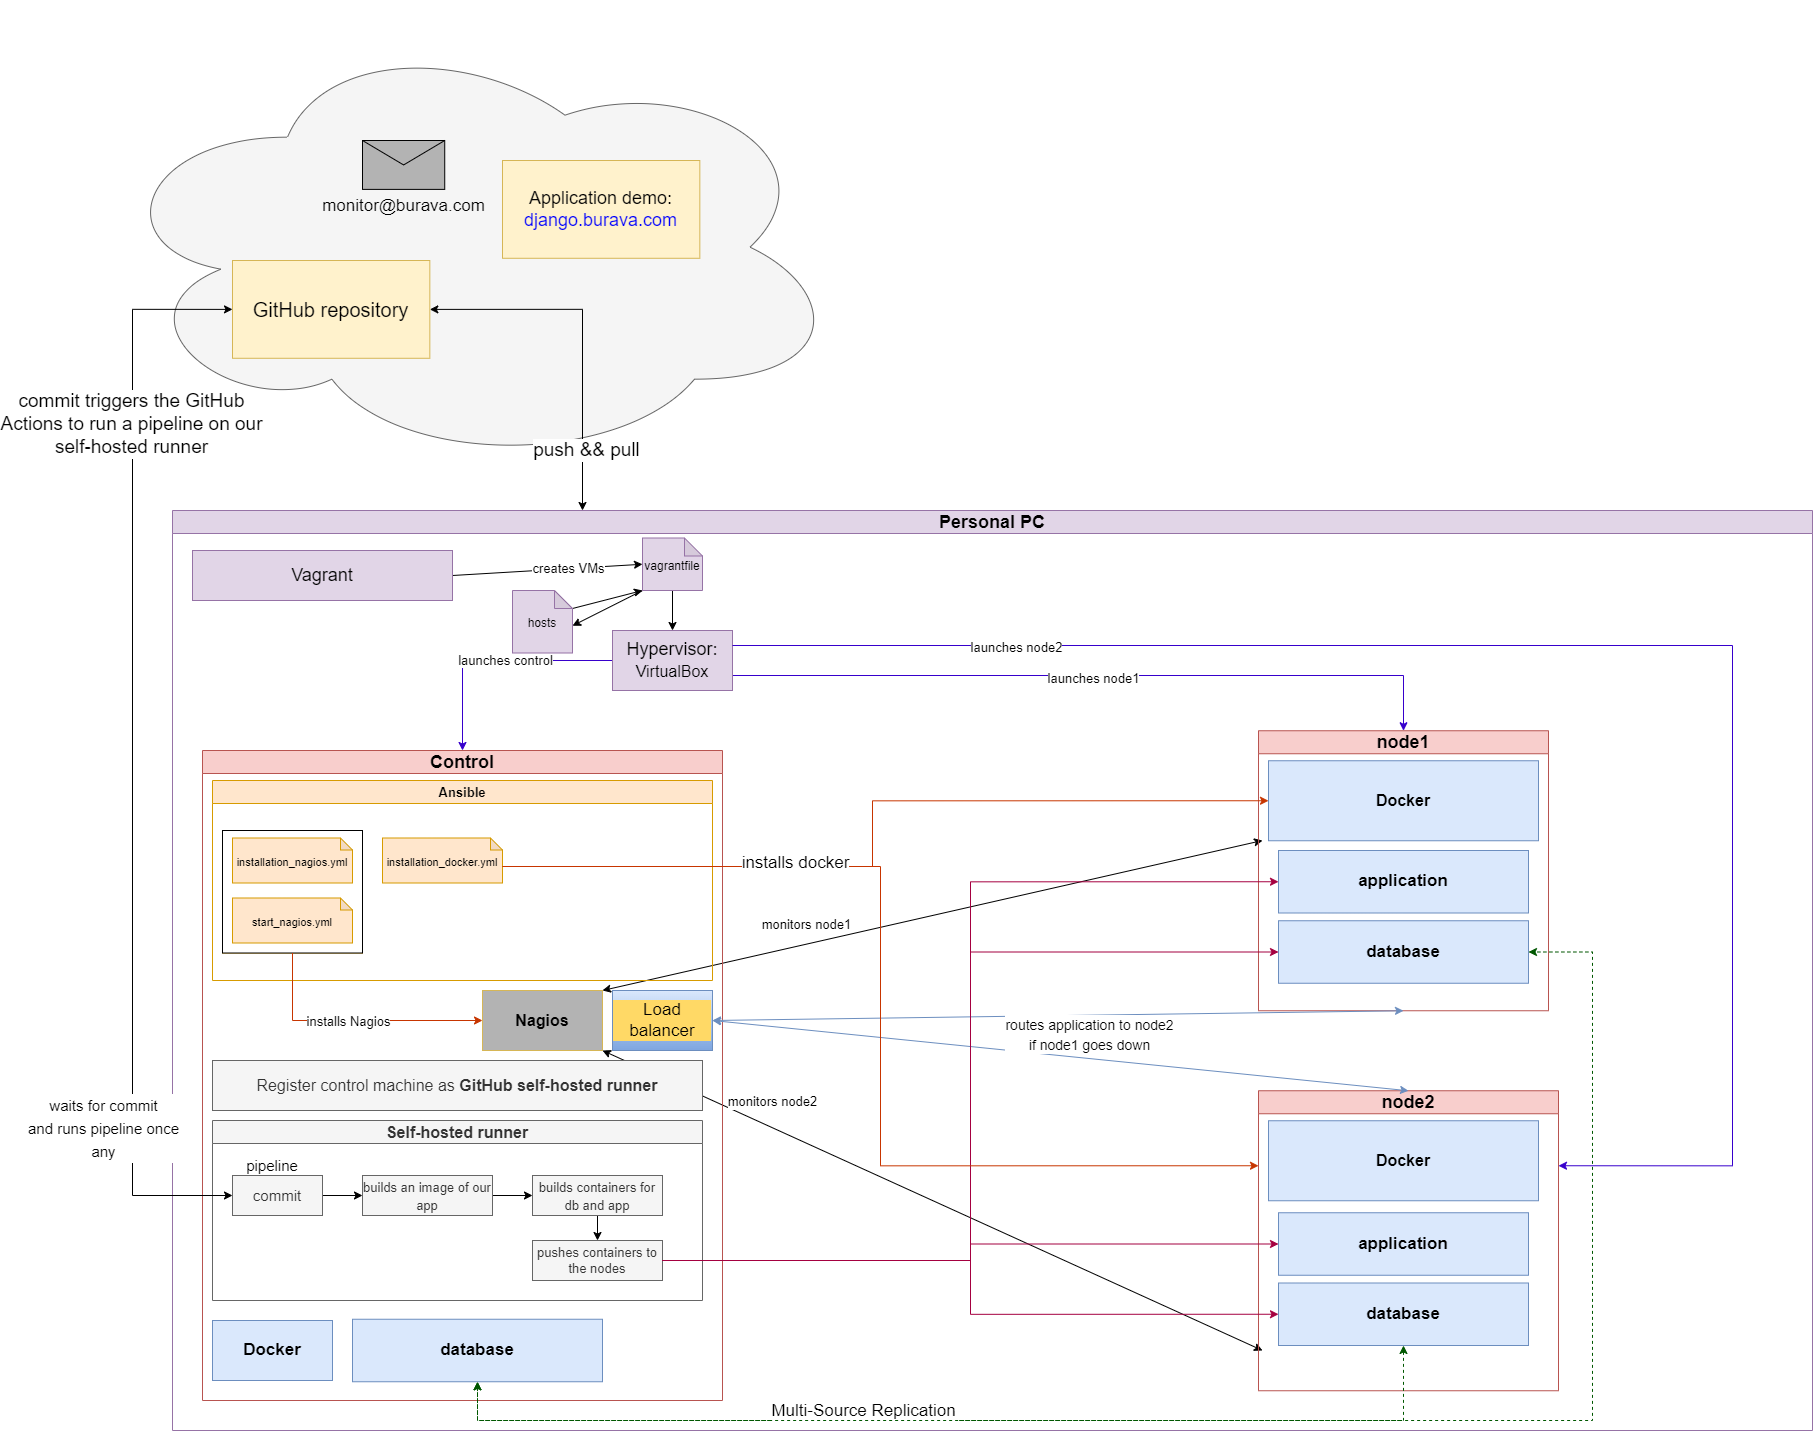
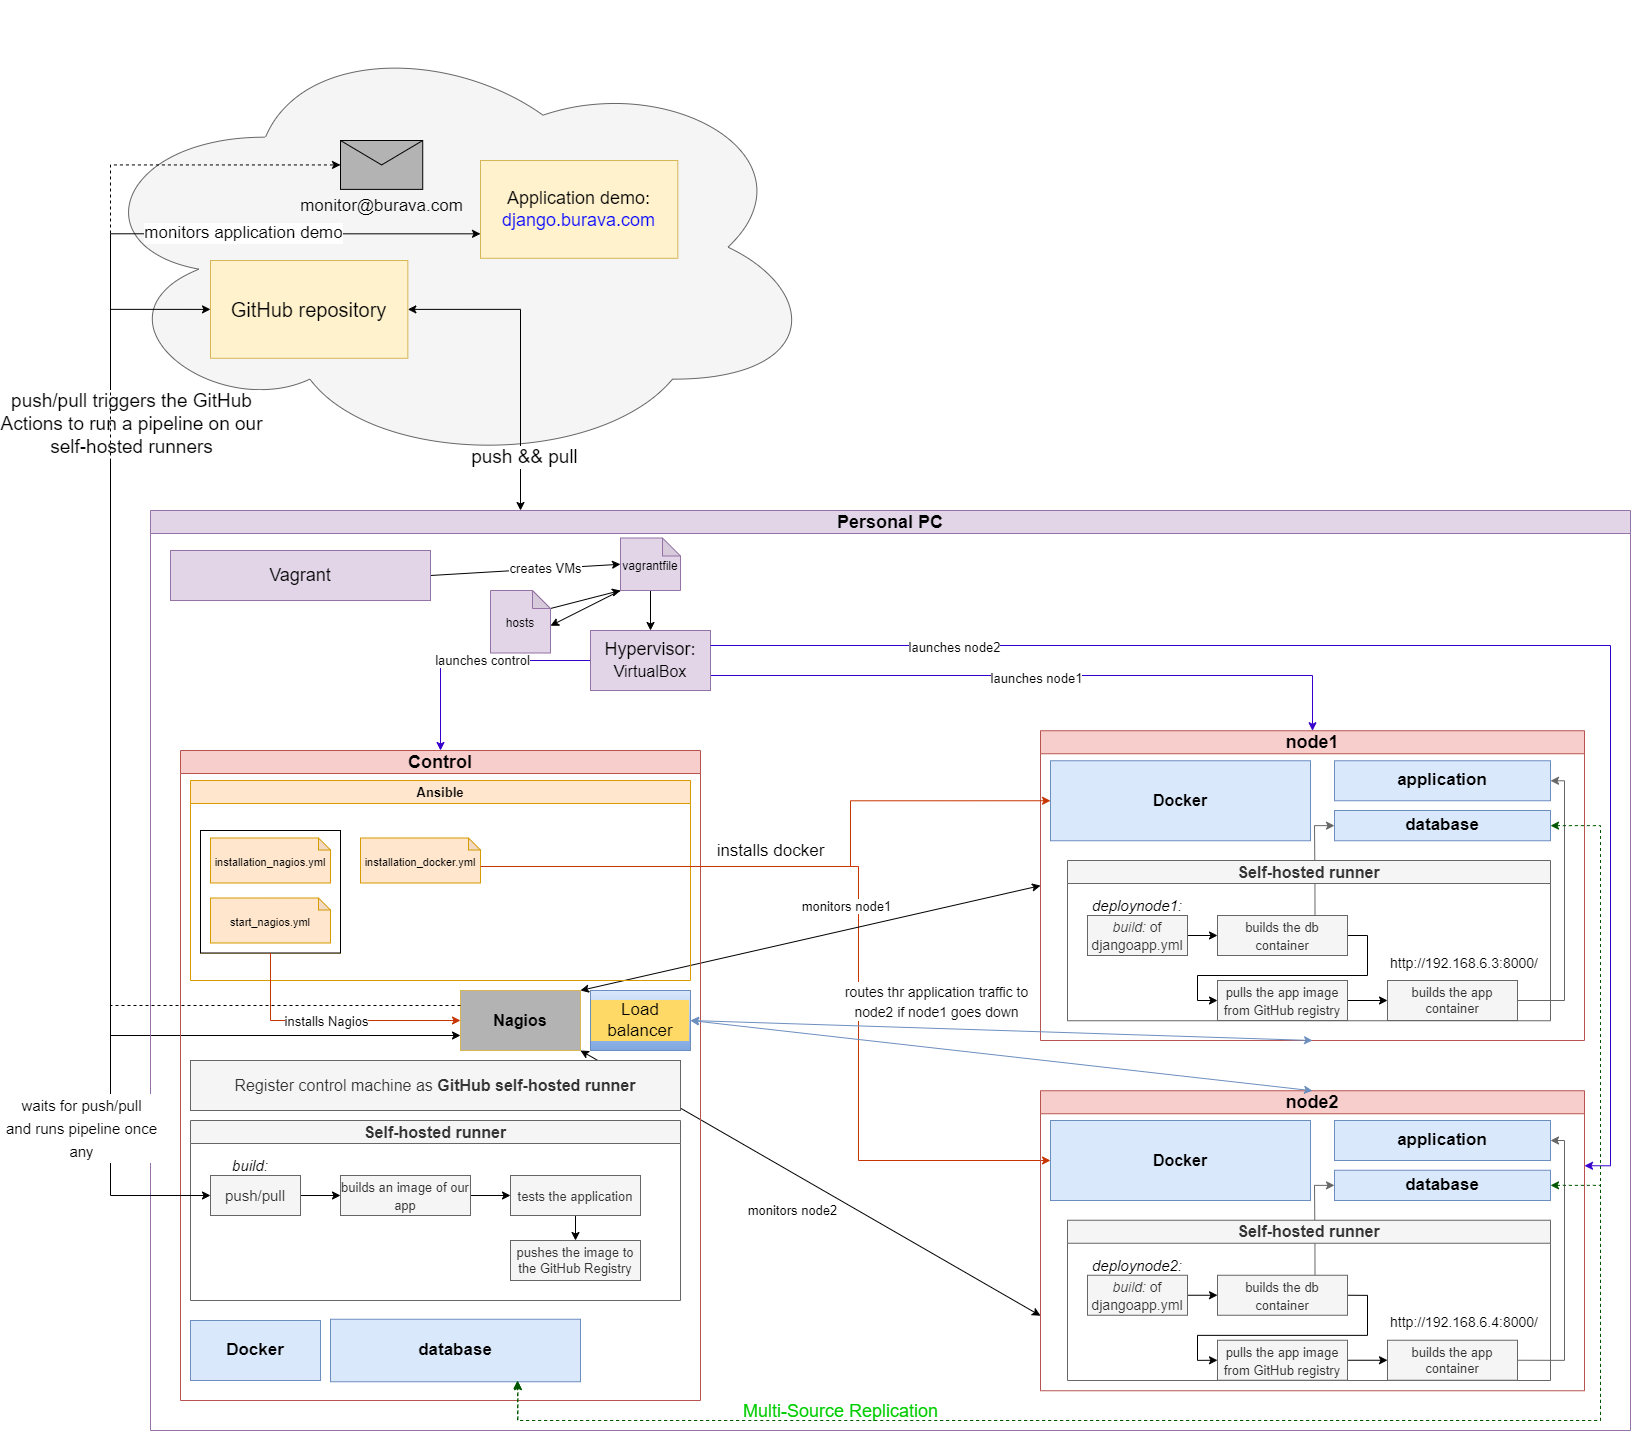
Updated docs. Minor changes in files

diff --git a/README.md b/README.md
@@ -4,7 +4,7 @@ Danylo Hotvianskyi entry-level portfolio project. Stack: Django, Docker, Ansible
 **Project is not finished. In progress...**
 
 ## Description of the project: ##
-The idea of this project is to visualize the DevOps practices deploying the Django simple application using 3 different servers.
+The idea of this project is to visualize the DevOps practices by deploying the Django simple application using 3 different servers.
 
 ### Application ###
 [Application](vagrant/djangoapp/README.md) in the project is the Django To Do list application with the MariaDB database. The project idea is not about the application itself, it is just used as an example. 
@@ -17,15 +17,15 @@ Application on-line demo: [django.burava.com](https://django.burava.com)
 ### Plan: ###
 * [Vagrant](vagrant/README.md) is used to launch 3 VM servers in VirtualBox:
   * *control* server is used to operate the other two servers. On this server, we will install Ansible and Nagios to monitor our project application.
-  * node1 is used to deploy our application. 
-  * node2 will be a full copy of the first one to ensure High Availability.
+  * *node1* is used to deploy our application. 
+  * *node2* will be a full copy of the first one to ensure High Availability.
 
 This step above is done to imagine that we have 3 different physical servers in our company which all are completely empty and no services are installed on them. And yes, there is no actual sense in this step if you are going to manage your servers from your personal PC. Consider this step as *Creating a lab*.
 * [Ansible](vagrant/ansible/README.md) is installed on the *control* server. Playbooks will install and configure **Nagios** on the *control* server, and install **Docker&Docker-compose** on the other two servers.
 * [Docker](vagrant/djangoapp/README.md) is used to deploy our application and database as two different containers on our both servers.
-* **GitHub Actions** will be used to represent the *CI/CD* practices to automatically build, test, and deploy the application whenever changes are made to the repository. We will register our *control* server as the **GitHub self-hosted runner** to make it listen to our repository and once there is a new commit on it, it will trigger the pipeline on the *control* server. 
+* [GitHub Actions](.github/workflows/README.md) is used to represent the *CI/CD* practices to automatically build, test, and deploy the application whenever changes are made to the repository. We will register our servers as the **GitHub self-hosted runners** to make them listen to our repository and once there is a new push/pull on it, it will trigger the pipeline on the *control*, *node1* and *node2* servers. 
  
-This pipeline will build an image of our application and push it to the *GitHub Registry*, then it will build containers which will be pushed and deployed to our nodes. 
+This [pipeline](.github/workflows/djangoapp.yml) will test our application, build an image of it and push it to the *GitHub Registry*. Then the nodes will pull that image and build containers using it. 
 * **Nagios** will be used to monitor both servers' performance. Also, it will monitor our application demo and notify us when there is any issue.
 * It is planned that the **HAProxy Load balancer** will be used to route the application traffic to node2 if node1 is down for some reason.
 * To ensure the *database synchronization* between node1 and node2, it is planned to configure the *Multi-Source Replication* system using the built-in MariaDB configuration between the databases through the mirror database on the control server or directly between node1 and node2 (I have not decided yet).

diff --git a/vagrant/djangoapp/README.md b/vagrant/djangoapp/README.md
@@ -9,11 +9,11 @@ Application uses **MariaDB**(MySQL) database. Other requirements can be found [h
 * [wait-for-it.sh](https://github.com/vishnubob/wait-for-it)
 
 ## Installation process ##
-Our application will be deployed on 2 nodes (node1 & node2). Each node will contain 2 *Docker containers*: one for application and one for the database.
+Our application is deployed on 2 nodes (node1 & node2). Each node will contain 2 *Docker containers*: one for application and one for the database.
 
-It is planned that later **GitHub actions** will automatically deploy our containers from our *control* machine (which will be set as the *self-hosted runner*) using the automatically built images which will be pushed to the GitHub Registry as well. 
+[GitHub actions](https://github.com/danilgotvyansky/djangoapp_with_devops/blob/main/.github/workflows/README.md) automatically builds the image, pushes it to the **GitHub registry** and then the package is pulled and launched on the both nodes as they are registered as *self-hosted runners*. 
 
-For now, I will show how to deploy application without GitHub actions as it hasn't been configured yet.
+Below you can find the steps to build the application manually if needed without the GitHub Actions workflow.
 
 1. Connect to your application server (*node1*).
 ```
@@ -44,9 +44,6 @@ DB_PORT=3306 #or you can set a custom one
 DB_NAME=<db_name> #here and below same as for MARIADB_*
 DB_USER=<db_user> 
 DB_PASSWORD=<db_password>
-DJANGO_SUPERUSER_PASSWORD=<django_admin_password>
-DJANGO_SUPERUSER_USERNAME=<django_admin_username> 
-DJANGO_SUPERUSER_EMAIL=<djanto_admin_email>
 ```
 4. Build and launch docker containers:
 ```
@@ -55,4 +52,23 @@ docker-compose build && docker-compose up
 ```
 You should be able to open the application on the http://{your_node1_IP}:8000 link.
 
-Later I will add the application image to the *GitHub Registry* and re-create the [docker-compose.yaml](docker-compose.yaml) file to build the container without building an image.
+### Django Admin SuperUser ###
+
+It is also recommended to create the **Django Admin SuperUser** for the administrative access to your application.
+1. Find your docker container ID:
+```
+sudo docker container ls
+```
+
+Copy the ID of your *application_1* Docker container here.
+2. Enter your container bash interactively:
+```
+sudo docker exec -it <your container id> bash
+```
+3. Create the Django Admin SuperUser:
+```
+python manage.py createsuperuser
+```
+
+Now you can check if you are able to log in to your Admin dashboard here:
+http://{your_node1_IP}:8000/admin

diff --git a/.github/workflows/README.md b/.github/workflows/README.md
@@ -1,0 +1,50 @@
+# GitHub Actions #
+## Description ##
+In our application **GitHub Actions** is used to automatically build, test and deploy our [Django application](https://github.com/danilgotvyansky/djangoapp_with_devops/blob/main/vagrant/djangoapp/README.md) to our servers.
+
+CI/CD practices are all represented in one file - [djangoapp.yml](djangoapp.yml)
+
+The workflow is being triggered by the pull requests and push (only when changes are made within the *vagrant/djangoapp/*** path) on the **main** branch.
+
+There **3 jobs** inside:
+1. *build:* It actually builds the application on the *control* server, tests it and then push the image to the **GitHub Registry**.
+2. *deploynode1:* It pulls the application image from the **GitHub Registry** and builds the containers using the database and application images on the *node1*.
+3. *deploynode2:* It pulls the application image from the **GitHub Registry** and builds the containers using the database and application images on the *node2*.
+
+All three nodes are registered as the *self-hosted runners*. 
+
+Possibly, it is a temporary solution that I will remake later by changing the way of the image deployment to the servers.
+
+##  Pre-running steps ##
+1. Register all three machines as the *self-hosted runners*.
+2. Make sure that the **gnupg2** is installed and configured on all three servers (*recommended to do from the ~/actions-runner folder*):
+```
+sudo apt-get install pass gnupg2
+gpg2 --gen-key
+pass init $gpg_id
+```
+3. If you have followed the steps from the [Ansible tutorial](https://github.com/danilgotvyansky/djangoapp_with_devops/blob/main/vagrant/ansible/README.md), you should already have **Docker** and **Docker-compose** installed on your nodes.
+4. Make sure to create all the required **secrets** from [djangoapp.yml](djangoapp.yml) in the GitHub repository. Also, make sure to change the **DB_HOST** variable values to the ones corresponding to your servers' IPs.
+
+## After-running steps ##
+Don't forget to create your **Django Admin SuperUser**:
+
+1. Find your docker container ID:
+```
+sudo docker container ls
+```
+
+Copy the ID of your *application_1* Docker container here.
+2. Enter your container bash interactively:
+```
+sudo docker exec -it <your container id> bash
+```
+3. Create the Django Admin SuperUser:
+```
+python manage.py createsuperuser
+```
+
+You can check if the application works properly on:
+http://{your_node_IP}:8000/
+
+P.S: docker-compose.yaml is not used in the workflow because there is an issue when the node tries authenticating to Docker.
